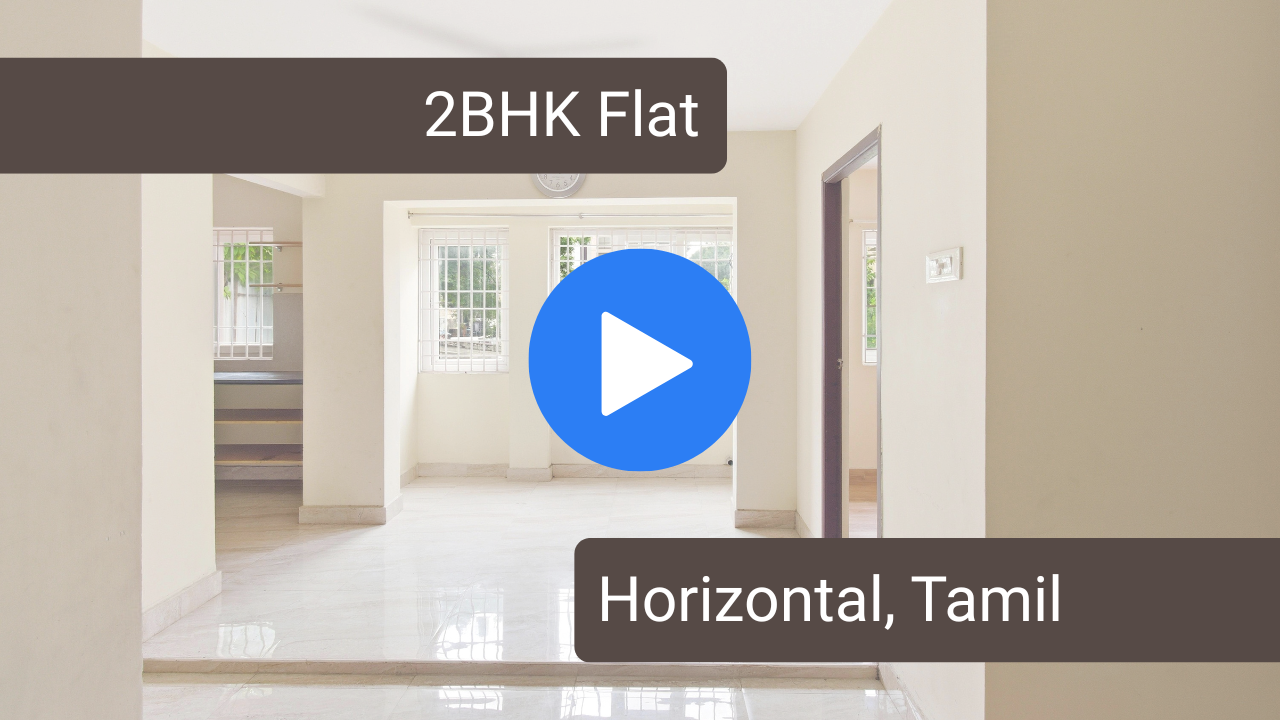
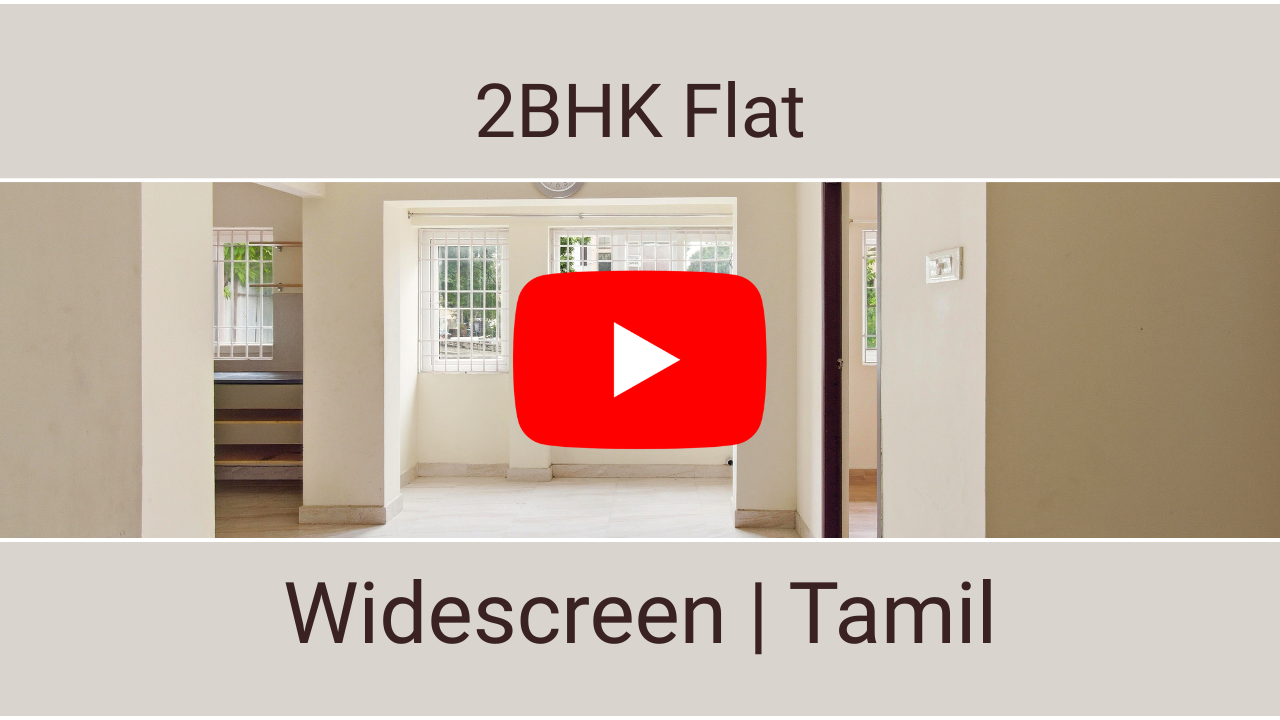
Trying YouTube embed

diff --git a/index.html b/index.html
@@ -95,6 +95,13 @@
     </div> -->
     <div class="grid" data-group="videos">
       <div class="thumb with-lightbox video-thumb" style="background-image:url('properties/velachery-2bhk-babynagar/videos/English-thumbnail.png')" data-type="video" data-src="https://www.youtube.com/embed/SKNE3_LZ4_4?si=8sOJpNOQqRvCqvYq">
+        <!-- <span class="play-icon">▶</span> -->
+      </div>
+      <div class="thumb with-lightbox video-thumb" style="background-image:url('properties/velachery-2bhk-babynagar/videos/Tamil-thumbnail.png')" data-type="video" data-src="https://www.youtube.com/embed/Rmul9SV4QQ4?si=wNQsAMggTm9L-iaG">
+        <!-- <span class="play-icon">▶</span> -->
+      </div>
+      <div class="thumb with-lightbox video-thumb" style="background-image:url('properties/velachery-2bhk-babynagar/videos/Short-thumbnail.png')" data-type="video" data-src="https://www.youtube.com/embed/rnHIEf-8MH0?si=Bi313b_bxBF2P0XS">
+        <!-- <span class="play-icon">▶</span> -->
       </div>
     </div>
   </div>

diff --git a/styles.css b/styles.css
@@ -128,7 +128,9 @@ body {
   align-items: center;
   justify-content: center;
   font-size: 2.2rem;
-  color: white;
+/*  color: white;*/
+/*  color: var(--primary);*/
+  color: #FF0000;
   text-shadow: 0 2px 8px rgba(0,0,0,0.6);
 }
 
